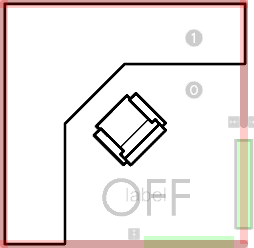
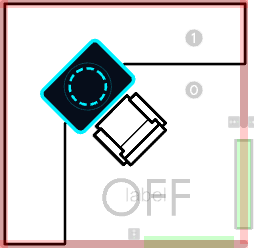
feat: add a static screen decor to office--001

Changed region(s): [[0.1378, 0.1411, 0.5512, 0.5645]]

diff --git a/TODO.md b/TODO.md
@@ -8,17 +8,19 @@
 - ✅ room labels represented as decor
   - `w decor.byRoom.0.1 | split | filter 'x => x.meta.label'`
 
-- 🚧 add "screen" as tilted decor quad
+- ✅ add "screen" as tilted decor quad
   - ✅ add decor image
 
-- can override edit g-301--playground.json in dev
-  - currently can only save as draft
 - ❌ prevent bubble fade while paused
 - ✅ clean MAX_DOORS_PER_GEOMORPH comment
   - can use e.g. 64 and no longer in sync with Doors.tsx
 
 - ✅ fix npc bounds i.e. on Lie and complete animation recompute bounding sphere
+
 - fix npc final turn when ends near nav border
+
+- can override edit g-301--playground.json in dev
+  - currently can only save as draft
 - obstacle resizing can be confusing
   - rotation is "determined" by the symbol's dimensions and the graphics appearance within it
   - we can forget to "update obstacles"
@@ -73,7 +75,6 @@
 ## Bugs
 
 - BUG npc animation out of sync after save npc.ts (?)
-  - possibly fixed via `cfg clear-all` then respawn
 - BUG on collapse/expand should persist pane dimensions
 - BUG need two ctrl-c for while loop walk?
 - BUG saw auto door close with nearby npc
